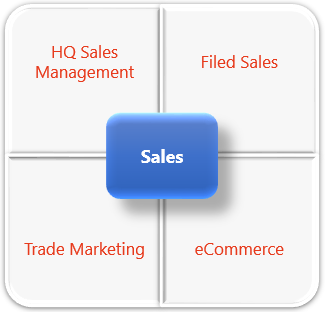
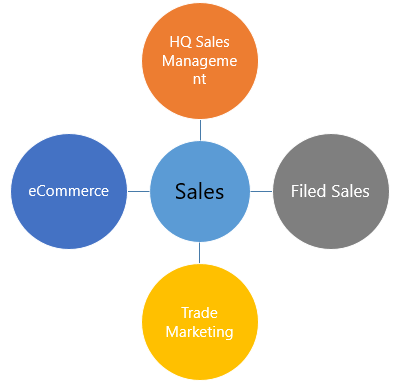
change FUNCTIONAL FOCUS's images

diff --git a/service.html b/service.html
@@ -191,7 +191,7 @@
 
                         <div class="col-md-6">
                             <center>
-                                <img src="photos/focus1.png" alt="">
+                                <img src="photos/focus1.png" alt="">                           
                             </center>
                         </div>
                         <div class="col-md-6">
@@ -563,6 +563,9 @@
                                 UP HEALTHY EMPLOYEE BRAND AND TO CREATE BEST CANDIDATE EXPERIENCE.</strong>
                         </p>
                         <img src="photos/ourvalue.png">
+                        <br>
+                        <br>
+                        <br>
                     </center>
                 </div>
             </div>
